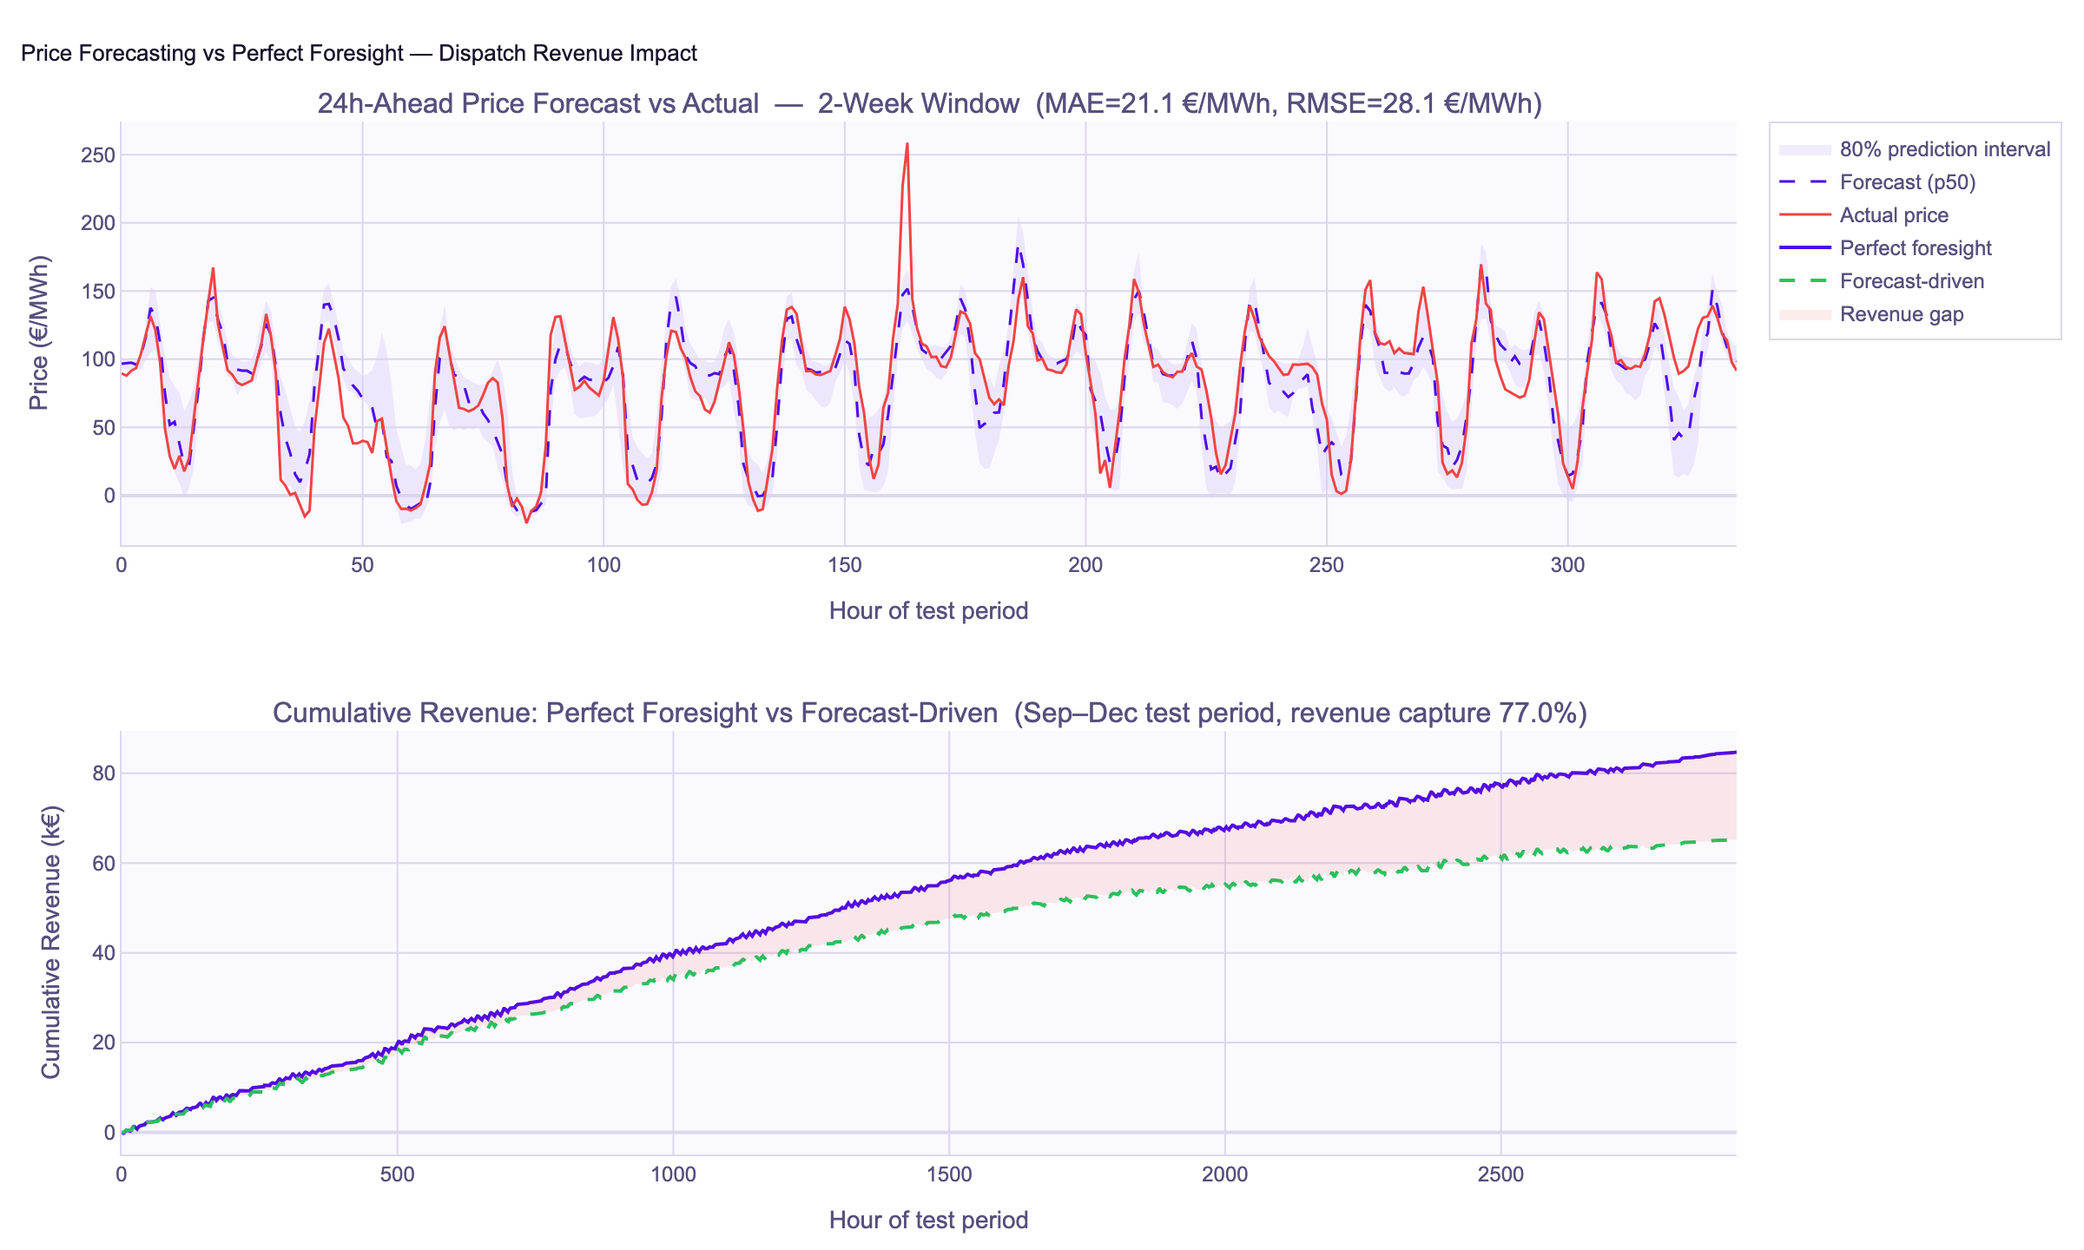
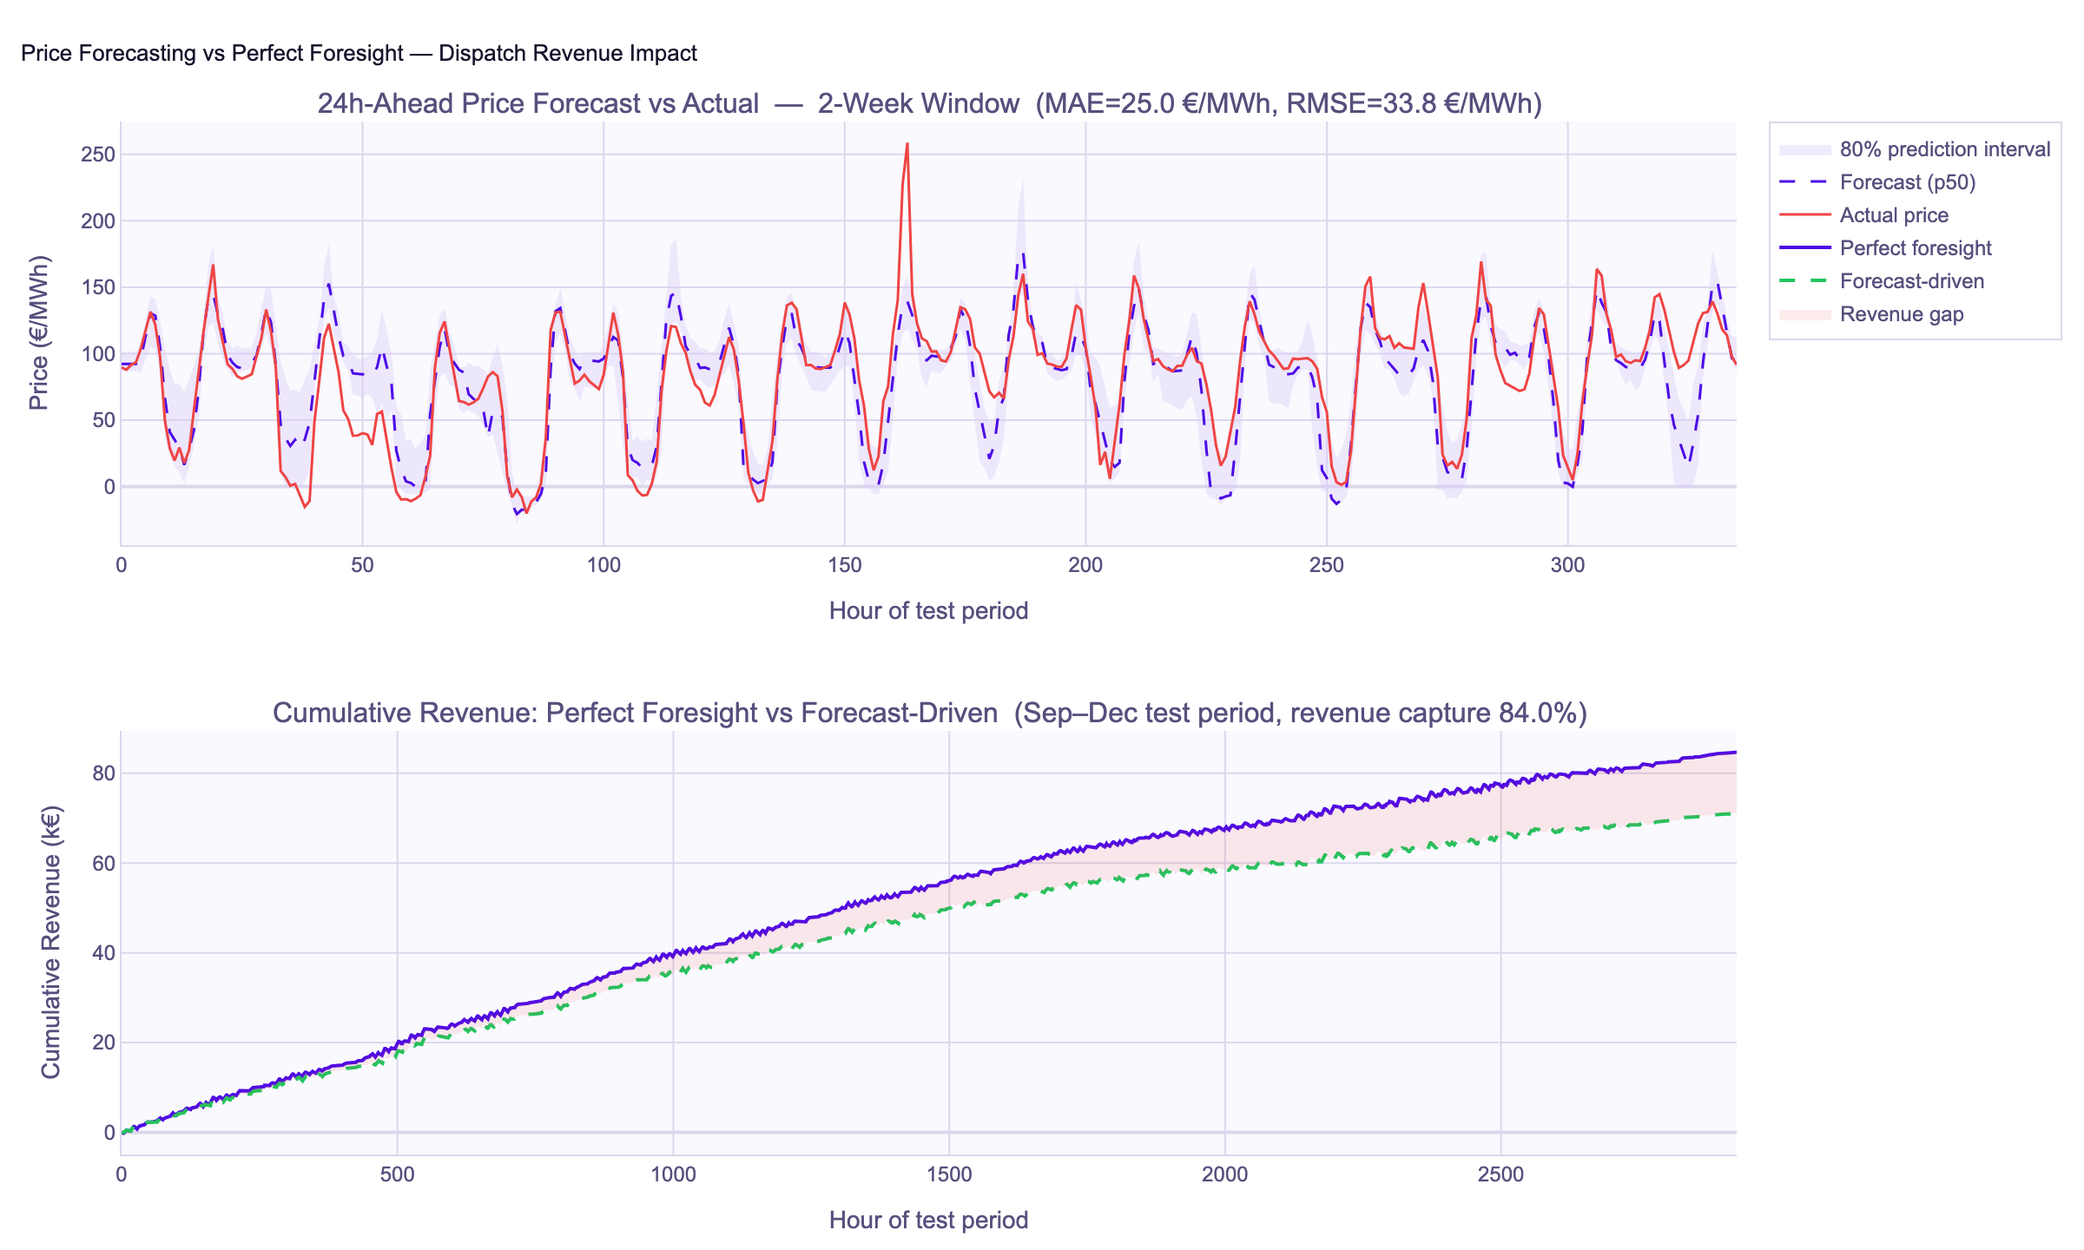
docs(task5): update README with corrected numbers; add Correction section
Replace every number in the results tables with values from re-running
examples 04, 05, 06 and scripts/generate_plots.py after the look-ahead
fix and p50 median change.

Key changes vs. original:
- Sep–Dec hold-out: MAE 25.1 (was 21.1), RMSE 34.0 (was 28.1),
  CRPS 17.0 (was 14.1), p90 cov 80.3% (was 82.8%),
  revenue capture 82.9% (was 77.0%)
- CQR offsets: +0.81/+5.15 EUR/MWh (was +0.72/+1.97)
- Walk-forward MAE 22.8 (was 21.3), GBM capture 88.1% (was 80.9%) —
  now marginally beats persistence 87.7%; original order inverted
- DM statistics reduced (2.16/2.65 vs 3.74/4.71) but still significant
  at 5% level; p-values updated
- Quantile crossings before fix: 159 (p10>p50) + 153 (p50>p90) = 312
  events across 7,344 walk-forward hours
- Robustness S0: A 88.1% (was 80.9%), B 88.1% (was 84.3%)
- Robustness S1: A 83.5% (was 67.6%), B 85.6% (was 83.2%)
- Reworded robustness and backtest interpretation paragraphs to match
  new results; fixed p50 median and quantile ordering notes in API docs
- Add "Correction (Oct 2026)" section explaining what changed and why
- Regenerate all docs/images/ plots

diff --git a/README.md b/README.md
@@ -46,13 +46,13 @@ A Python toolkit for BESS dispatch optimisation covering three use cases:
 
 | Metric | Value |
 |---|---|
-| MAE | 21.1 €/MWh |
-| RMSE | 28.1 €/MWh |
-| CRPS | 14.1 €/MWh |
-| p90 empirical coverage | 82.8% (target 90%) |
-| Revenue capture vs perfect foresight | 77.0% |
+| MAE | 25.1 €/MWh |
+| RMSE | 34.0 €/MWh |
+| CRPS | 17.0 €/MWh |
+| p90 empirical coverage | 80.3% (target 90%) |
+| Revenue capture vs perfect foresight | 82.9% |
 
-> **Calibration note:** the p90 quantile covers 82.8% of hold-out hours against a 90% target, so the upper bound is about 7 points too tight. The intervals are reported as measured and have not been recalibrated; see the reliability diagram below.
+> **Calibration note:** the p90 quantile covers 80.3% of hold-out hours against a 90% target, so the upper bound is about 10 points too tight. The intervals are reported as measured and have not been recalibrated; see the reliability diagram below.
 
 ---
 
@@ -78,18 +78,18 @@ The calibration set is kept strictly separate from training and test. Offsets ar
 
 | Metric | (a) Uncalibrated | (b) Static CQR | (c) Rolling CQR |
 |---|---|---|---|
-| p10 coverage (target 10%) | 18.6% | 19.5% | 12.4% |
-| p90 coverage (target 90%) | 82.2% | 84.3% | 89.3% |
-| 80% interval coverage (target 80%) | 63.6% | 64.8% | 76.9% |
-| Mean interval width (EUR/MWh) | 45.51 | 46.91 | 64.46 |
-| Pinball loss p10 (EUR/MWh) | 5.268 | 5.331 | 4.989 |
-| Pinball loss p50 (EUR/MWh) | 10.618 | 10.563 | 10.618 |
-| Pinball loss p90 (EUR/MWh) | 5.235 | 5.095 | 4.886 |
-| CRPS (EUR/MWh) | 14.080 | 13.993 | 13.661 |
+| p10 coverage (target 10%) | 22.7% | 23.3% | 13.8% |
+| p90 coverage (target 90%) | 80.3% | 85.4% | 89.5% |
+| 80% interval coverage (target 80%) | 57.6% | 62.1% | 75.7% |
+| Mean interval width (EUR/MWh) | 49.60 | 53.94 | 74.82 |
+| Pinball loss p10 (EUR/MWh) | 6.725 | 6.828 | 6.124 |
+| Pinball loss p50 (EUR/MWh) | 12.527 | 12.527 | 12.527 |
+| Pinball loss p90 (EUR/MWh) | 6.217 | 5.860 | 5.795 |
+| CRPS (EUR/MWh) | 16.979 | 16.810 | 16.297 |
 
 Numbers are as measured; nothing was tuned on the test period.
 
-**Interpretation:** Static CQR (August offsets, +0.72 / +1.97 EUR/MWh for p10/p90) closes only 2 of the 8 percentage-point gap in p90 coverage. The 30-day rolling variant reaches 89.3% p90 coverage — close to but still 0.7 points short of the 90% target — while also improving CRPS from 14.08 to 13.66 EUR/MWh. The p10 quantile exceeds the 10% target in all variants (18.6%, 19.5%, 12.4%): actual prices fall below the lower bound more often than the target, meaning the lower bound is set too high (not wide enough on the downside), and CQR only partially corrects it. Interval widths widen with calibration (especially rolling), which is the expected cost of better coverage.
+**Interpretation:** Static CQR (August offsets, +0.81 / +5.15 EUR/MWh for p10/p90) improves p90 coverage by 5 points but barely moves CRPS. The 30-day rolling variant reaches 89.5% p90 coverage — close to but still 0.5 points short of the 90% target — while also improving CRPS from 16.98 to 16.30 EUR/MWh. The p10 quantile exceeds the 10% target in all variants (22.7%, 23.3%, 13.8%): actual prices fall below the lower bound more often than the target, meaning the lower bound is set too high (not wide enough on the downside), and CQR only partially corrects it. Interval widths widen with calibration (especially rolling), which is the expected cost of better coverage.
 
 Run [`examples/04_recalibration.py`](examples/04_recalibration.py) to reproduce these results.
 
@@ -123,33 +123,33 @@ All metrics in €/MWh except coverage (%). Overall row weighted by month length
 
 | Month | MAE | RMSE | p90 cov% | 80% cov% | CRPS | MAE pers | RMSE pers |
 |---|---|---|---|---|---|---|---|
-| Mar | 33.8 | 44.5 | 88.2 | 58.3 | 23.34 | 26.7 | 40.8 |
-| Apr | 25.9 | 34.6 | 88.5 | 70.7 | 16.25 | 24.8 | 35.3 |
-| May | 26.3 | 34.2 | 78.2 | 57.1 | 17.37 | 26.5 | 37.6 |
-| Jun | 19.1 | 23.7 | 88.2 | 81.1 | 11.39 | 20.6 | 29.1 |
-| Jul | 14.3 | 19.6 | 90.7 | 76.9 | 9.25 | 20.8 | 30.2 |
-| Aug | 11.5 | 16.3 | 87.5 | 78.2 | 7.77 | 19.2 | 29.1 |
-| Sep | 18.0 | 24.9 | 84.7 | 65.6 | 12.14 | 24.0 | 33.6 |
-| Oct | 22.3 | 29.4 | 82.1 | 62.0 | 14.90 | 31.3 | 41.6 |
-| Nov | 20.4 | 27.3 | 77.6 | 64.3 | 13.34 | 25.2 | 33.5 |
-| Dec | 20.9 | 27.7 | 91.7 | 63.4 | 12.95 | 25.7 | 34.7 |
-| **Overall** | **21.3** | **29.3** | **85.8** | **67.7** | **13.88** | **24.5** | **34.8** |
+| Mar | 31.6 | 44.6 | 88.4 | 50.5 | 25.09 | 26.7 | 40.8 |
+| Apr | 21.6 | 30.2 | 89.3 | 61.3 | 15.34 | 24.8 | 35.3 |
+| May | 28.4 | 38.7 | 78.1 | 46.5 | 21.49 | 26.5 | 37.6 |
+| Jun | 18.7 | 26.6 | 91.4 | 80.4 | 12.00 | 20.6 | 29.1 |
+| Jul | 16.1 | 22.6 | 90.7 | 70.8 | 10.65 | 20.8 | 30.2 |
+| Aug | 14.2 | 21.1 | 83.9 | 75.0 | 9.27 | 19.2 | 29.1 |
+| Sep | 22.5 | 30.6 | 80.4 | 56.5 | 14.94 | 24.0 | 33.6 |
+| Oct | 25.8 | 35.1 | 81.0 | 57.3 | 17.96 | 31.3 | 41.6 |
+| Nov | 23.5 | 30.4 | 73.6 | 56.4 | 15.63 | 25.2 | 33.5 |
+| Dec | 25.5 | 34.0 | 91.8 | 63.7 | 16.61 | 25.7 | 34.7 |
+| **Overall** | **22.8** | **32.1** | **84.9** | **61.8** | **15.92** | **24.5** | **34.8** |
 
 ### Economic results (revenue evaluated on actual prices) — Mar–Dec 2023
 
 | Month | PF revenue | GBM revenue | Pers revenue | Capture GBM | Capture pers |
 |---|---|---|---|---|---|
-| Mar | €27,353 | €12,107 | €24,408 | 44.3% | 89.2% |
-| Apr | €29,514 | €23,754 | €27,537 | 80.5% | 93.3% |
-| May | €33,879 | €29,480 | €30,310 | 87.0% | 89.5% |
-| Jun | €28,047 | €24,836 | €24,906 | 88.6% | 88.8% |
-| Jul | €30,119 | €27,314 | €26,709 | 90.7% | 88.7% |
-| Aug | €28,255 | €26,536 | €25,715 | 93.9% | 91.0% |
-| Sep | €28,287 | €25,802 | €25,303 | 91.2% | 89.5% |
-| Oct | €26,223 | €21,230 | €21,929 | 81.0% | 83.6% |
-| Nov | €16,939 | €11,888 | €13,291 | 70.2% | 78.5% |
-| Dec | €13,078 | €8,653 | €9,426 | 66.2% | 72.1% |
-| **Overall** | **€261,695** | **€211,598** | **€229,535** | **80.9%** | **87.7%** |
+| Mar | €27,353 | €21,754 | €24,408 | 79.5% | 89.2% |
+| Apr | €29,514 | €27,015 | €27,537 | 91.5% | 93.3% |
+| May | €33,879 | €30,562 | €30,310 | 90.2% | 89.5% |
+| Jun | €28,047 | €25,984 | €24,906 | 92.6% | 88.8% |
+| Jul | €30,119 | €28,331 | €26,709 | 94.1% | 88.7% |
+| Aug | €28,255 | €26,505 | €25,715 | 93.8% | 91.0% |
+| Sep | €28,287 | €25,808 | €25,303 | 91.2% | 89.5% |
+| Oct | €26,223 | €22,247 | €21,929 | 84.8% | 83.6% |
+| Nov | €16,939 | €12,921 | €13,291 | 76.3% | 78.5% |
+| Dec | €13,078 | €9,465 | €9,426 | 72.4% | 72.1% |
+| **Overall** | **€261,695** | **€230,592** | **€229,535** | **88.1%** | **87.7%** |
 
 ### Diebold–Mariano test (GBM p50 vs persistence, Mar–Dec, *n* = 306 days)
 
@@ -158,15 +158,15 @@ H₁: GBM has lower expected loss than persistence (one-sided). Daily loss diffe
 | Metric | Abs loss | Sq loss |
 |---|---|---|
 | Mean loss — persistence | 24.475 €/MWh | 1 213.8 (€/MWh)² |
-| Mean loss — GBM p50 | 21.265 €/MWh | 857.4 (€/MWh)² |
-| DM statistic | 3.741 | 4.713 |
-| *p*-value (normal) | 0.0001 | < 0.0001 |
-| HLN statistic | 3.735 | 4.706 |
-| *p*-value (HLN, *t*₃₀₅) | 0.0001 | < 0.0001 |
+| Mean loss — GBM p50 | 22.815 €/MWh | 1 032.3 (€/MWh)² |
+| DM statistic | 2.163 | 2.646 |
+| *p*-value (normal) | 0.015 | 0.004 |
+| HLN statistic | 2.160 | 2.642 |
+| *p*-value (HLN, *t*₃₀₅) | 0.016 | 0.004 |
 
 ### Interpretation
 
-GBM is highly significantly more accurate than persistence in point-forecast terms — DM *p* < 0.001 for both absolute and squared loss, with or without the HLN correction. That statistical advantage does **not** translate to better revenue capture: over Mar–Dec persistence (87.7%) outperforms GBM p50 (80.9%). GBM wins only in Jul (90.7% vs 88.7%) and Aug (93.9% vs 91.0%) — the months with the most training data. March is especially poor for GBM (44.3% vs 89.2%): with only ~1 250 training samples the model mis-forecasts the seasonal price structure enough to drive a badly timed dispatch schedule. GBM's 80% interval coverage averages 67.7%, well short of the 80% target; p90 coverage (85.8%) also falls below 90%.
+GBM is significantly more accurate than persistence in point-forecast terms — DM *p* = 0.016 (abs) and 0.004 (sq) with the HLN correction. After fixing the rolling-feature look-ahead, the DM statistics are lower than before (2.16 / 2.64 vs. previously 3.74 / 4.71), but remain significant at the 5% level. Unlike the original version, the forecast accuracy advantage now translates to a small revenue edge: GBM (88.1%) marginally outperforms persistence (87.7%) overall, winning 7 of 10 months. March remains the weakest month (GBM 79.5% vs persistence 89.2%): with only ~1 250 training samples the model mis-forecasts the seasonal price structure. GBM's 80% interval coverage averages 61.8%, well short of the 80% target; p90 coverage (84.9%) also falls below 90%.
 
 **Limitations:** monthly (not daily) re-training; single year of data (2023).
 
@@ -208,39 +208,45 @@ Run [`examples/06_robustness.py`](examples/06_robustness.py) to reproduce.
 
 | Month | N-h | PF rev (€) | A cap% | A MAE | B cap% | B MAE | B fb% | C cap% | C MAE |
 |---|---|---|---|---|---|---|---|---|---|
-| Mar | 744 | 27 353 | 44.3 | 33.8 | 71.8 | 27.7 | 54.8 | 85.1 | 27.3 |
-| Apr | 720 | 29 514 | 80.5 | 25.9 | 89.6 | 22.0 | 40.0 | 93.2 | 24.4 |
-| May | 744 | 33 879 | 87.0 | 26.3 | 85.5 | 25.9 | 12.9 | 88.8 | 26.5 |
-| Jun | 720 | 28 047 | 88.6 | 19.1 | 87.7 | 20.6 | 36.7 | 88.8 | 20.6 |
-| Jul | 744 | 30 119 | 90.7 | 14.3 | 90.7 | 14.3 | 0.0 | 88.7 | 20.8 |
-| Aug | 744 | 28 255 | 93.9 | 11.5 | 93.2 | 13.5 | 9.7 | 91.0 | 19.1 |
-| Sep | 720 | 28 287 | 91.2 | 18.0 | 87.8 | 20.0 | 26.7 | 89.4 | 23.5 |
-| Oct | 744 | 26 223 | 81.0 | 22.3 | 84.5 | 28.3 | 51.6 | 83.6 | 31.2 |
-| Nov | 720 | 16 939 | 70.2 | 20.4 | 67.5 | 20.8 | 6.7 | 78.3 | 25.2 |
-| Dec | 744 | 13 078 | 66.2 | 20.9 | 67.9 | 21.5 | 29.0 | 72.9 | 25.3 |
-| **Overall** | **7 344** | **261 695** | **80.9** | **21.3** | **84.3** | **21.5** | **26.8** | **87.2** | **24.4** |
+| Mar | 744 | 27 353 | 79.5 | 31.6 | 80.1 | 31.2 | 3.2 | 85.1 | 27.3 |
+| Apr | 720 | 29 514 | 91.5 | 21.6 | 93.5 | 20.7 | 23.3 | 93.2 | 24.4 |
+| May | 744 | 33 879 | 90.2 | 28.4 | 89.3 | 27.6 | 12.9 | 88.8 | 26.5 |
+| Jun | 720 | 28 047 | 92.6 | 18.7 | 92.4 | 18.6 | 3.3 | 88.8 | 20.6 |
+| Jul | 744 | 30 119 | 94.1 | 16.1 | 94.1 | 16.1 | 0.0 | 88.7 | 20.8 |
+| Aug | 744 | 28 255 | 93.8 | 14.2 | 93.4 | 15.6 | 9.7 | 91.0 | 19.1 |
+| Sep | 720 | 28 287 | 91.2 | 22.5 | 91.2 | 22.5 | 0.0 | 89.4 | 23.5 |
+| Oct | 744 | 26 223 | 84.8 | 25.8 | 84.3 | 25.7 | 3.2 | 83.6 | 31.2 |
+| Nov | 720 | 16 939 | 76.3 | 23.5 | 76.3 | 23.5 | 0.0 | 78.3 | 25.2 |
+| Dec | 744 | 13 078 | 72.4 | 25.5 | 70.8 | 22.1 | 29.0 | 72.9 | 25.3 |
+| **Overall** | **7 344** | **261 695** | **88.1** | **22.8** | **88.1** | **22.4** | **8.5** | **87.2** | **24.4** |
 
 **Scenario S1 — faulty inputs (seed=42)**
 
 | Month | N-h | NaN | Spk | Stk | Imp | A cap% | A MAE | B cap% | B MAE | B fb% | C cap% | C MAE |
 |---|---|---|---|---|---|---|---|---|---|---|---|---|
-| Mar | 744 | 41 | 28 | 18 | 87 | 48.1 | 46.9 | 66.0 | 28.5 | 58.1 | 80.1 | 27.9 |
-| Apr | 720 | 38 | 47 | 34 | 114 | 71.5 | 33.8 | 92.1 | 24.2 | 76.7 | 93.1 | 25.1 |
-| May | 744 | 12 | 25 | 23 | 56 | 71.5 | 34.6 | 86.0 | 25.9 | 48.4 | 89.7 | 26.3 |
-| Jun | 720 | 31 | 14 | 9 | 45 | 74.3 | 24.4 | 89.8 | 18.2 | 33.3 | 88.8 | 20.1 |
-| Jul | 744 | 62 | 17 | 24 | 92 | 72.4 | 30.3 | 88.6 | 18.6 | 48.4 | 86.6 | 22.6 |
-| Aug | 744 | 4 | 23 | 10 | 31 | 82.0 | 18.0 | 91.9 | 13.9 | 19.4 | 90.1 | 19.3 |
-| Sep | 720 | 49 | 27 | 26 | 97 | 72.8 | 28.7 | 84.2 | 23.2 | 46.7 | 85.3 | 24.5 |
-| Oct | 744 | 61 | 43 | 49 | 122 | 63.5 | 42.3 | 83.9 | 31.6 | 96.8 | 84.5 | 32.1 |
-| Nov | 720 | 55 | 8 | 8 | 76 | 49.4 | 32.2 | 65.7 | 26.0 | 63.3 | 70.9 | 27.3 |
-| Dec | 744 | 23 | 23 | 0 | 42 | 53.1 | 26.3 | 65.7 | 22.0 | 32.3 | 67.0 | 26.7 |
-| **Overall** | **7 344** | **376** | **255** | **201** | **762** | **67.6** | **31.8** | **83.2** | **23.2** | **52.3** | **85.3** | **25.2** |
+| Mar | 744 | 41 | 28 | 18 | 87 | 78.1 | 31.3 | 77.7 | 30.7 | 41.9 | 80.1 | 27.9 |
+| Apr | 720 | 38 | 47 | 34 | 114 | 90.5 | 23.3 | 91.8 | 24.8 | 66.7 | 93.1 | 25.1 |
+| May | 744 | 12 | 25 | 23 | 56 | 84.2 | 32.1 | 87.8 | 26.6 | 45.2 | 89.7 | 26.3 |
+| Jun | 720 | 31 | 14 | 9 | 45 | 90.6 | 20.6 | 91.9 | 18.5 | 26.7 | 88.8 | 20.1 |
+| Jul | 744 | 62 | 17 | 24 | 92 | 86.7 | 20.7 | 90.2 | 19.7 | 48.4 | 86.6 | 22.6 |
+| Aug | 744 | 4 | 23 | 10 | 31 | 91.5 | 15.0 | 92.7 | 15.7 | 19.4 | 90.1 | 19.3 |
+| Sep | 720 | 49 | 27 | 26 | 97 | 88.9 | 24.3 | 85.8 | 23.3 | 40.0 | 85.3 | 24.5 |
+| Oct | 744 | 61 | 43 | 49 | 122 | 76.8 | 29.0 | 82.5 | 29.9 | 64.5 | 84.5 | 32.1 |
+| Nov | 720 | 55 | 8 | 8 | 76 | 63.6 | 25.6 | 73.6 | 24.9 | 53.3 | 70.9 | 27.3 |
+| Dec | 744 | 23 | 23 | 0 | 42 | 64.4 | 26.2 | 64.3 | 24.7 | 25.8 | 67.0 | 26.7 |
+| **Overall** | **7 344** | **376** | **255** | **201** | **762** | **83.5** | **24.8** | **85.6** | **23.9** | **43.1** | **85.3** | **25.2** |
 
 ### Interpretation
 
-On clean data (S0) the robustness layer changes little: A (80.9%), B (84.3%), and C (87.2%) replicate the backtest pattern — persistence still captures the most revenue and GBM with fallback sits in between. On faulty data (S1) the checks and imputation matter: raw GBM (A) drops to 67.6% as corrupt lag features degrade the forecast, while the robustness layer (B) recovers to 83.2% by switching ~52% of days to cleaned persistence. Cleaned persistence alone (C, 85.3%) still edges out B by 2.1 pp overall, so the fallback **does not outperform simply using persistence throughout** — it only reduces the gap caused by faults.
+On clean data (S0) A (88.1%), B (88.1%), and C (87.2%) are close, with GBM and GBM+fallback marginally leading persistence — consistent with the backtest result after the look-ahead fix. The fallback threshold is now less aggressive (k=2.00, fb%=8.5%), so B rarely switches away from GBM on clean data. On faulty data (S1) the checks and imputation matter: raw GBM (A) drops to 83.5% as corrupt lag features degrade the forecast, while the robustness layer (B) recovers to 85.6% by switching ~43% of days to cleaned persistence. Cleaned persistence alone (C, 85.3%) is close to B but no longer clearly superior, and raw GBM (A) on S1 is now much closer to its S0 level than before — a sign that the previously reported large S0→S1 degradation was partly artefact of the look-ahead leak rather than fault sensitivity.
 
 **Limitations:** single fault seed; monthly (not daily) planning horizon; no intra-month re-forecasting.
+
+---
+
+## Correction (Oct 2026)
+
+The rolling-feature window in `_make_features` originally used `prices[t-24:t]`, which included same-day hours up to (but not including) *t*. For a day-ahead bid placed at noon on day D−1, those same-day prices are not yet known, so this was a look-ahead leak. The fix uses `prices[day_start-24:day_start]` — the previous complete day's prices only. In addition, `model_p50` was changed from squared-error loss (which estimates the mean) to quantile loss at α=0.50 (the true median), and per-hour quantile ordering (p10 ≤ p50 ≤ p90) is now enforced in `forecast_prices`. Across the Mar–Dec walk-forward backtest, the leak had inflated the apparent point-forecast accuracy while simultaneously harming revenue capture: after the fix, MAE rose from 21.3 to 22.8 EUR/MWh overall, but GBM revenue capture improved from 80.9% to 88.1% (nearly matching persistence at 87.7%), because the corrected model no longer learns spurious intra-day correlations that mislead the dispatch optimiser.
 
 ---
 
@@ -253,7 +259,7 @@ On clean data (S0) the robustness layer changes little: A (80.9%), B (84.3%), an
 | **Co-sizing mode** | Jointly optimise capacity, power, and schedule under an E:P ratio window |
 | **RFNBO compliance gate** | Block charging at prices > 20 EUR/MWh (additionality proxy) |
 | **Round-trip efficiency** | Symmetric √η split across charge and discharge legs |
-| **Price forecaster** | GBM with cyclic calendar encoding, lagged prices, 80% prediction intervals |
+| **Price forecaster** | GBM with cyclic calendar encoding, lagged prices, 80% prediction intervals; p50 is a true median (quantile loss α=0.50) |
 | **Forecast calibration** | Reliability diagram and CRPS to evaluate probabilistic forecast quality |
 | **Forecast-driven dispatch** | Run MILP on forecast prices; evaluate revenue capture vs perfect foresight |
 
@@ -390,11 +396,11 @@ Generates a synthetic 8,760-hour industrial load profile with day/night, weekday
 
 ### `train_price_forecaster(prices, train_end_h, n_estimators) → tuple`
 
-Returns `(model_p50, model_p10, model_p90)` — three fitted scikit-learn GBM estimators.
+Returns `(model_p50, model_p10, model_p90)` — three fitted scikit-learn GBM estimators. `model_p50` uses quantile loss at α=0.50 (true median).
 
 ### `forecast_prices(models, prices, start_h, end_h) → tuple`
 
-Returns `(point, lower, upper)` — p50, p10, p90 forecasts as `np.ndarray`.
+Returns `(point, lower, upper)` — p50, p10, p90 forecasts as `np.ndarray`. Quantile ordering (p10 ≤ p50 ≤ p90) is enforced per hour.
 
 ---
 
